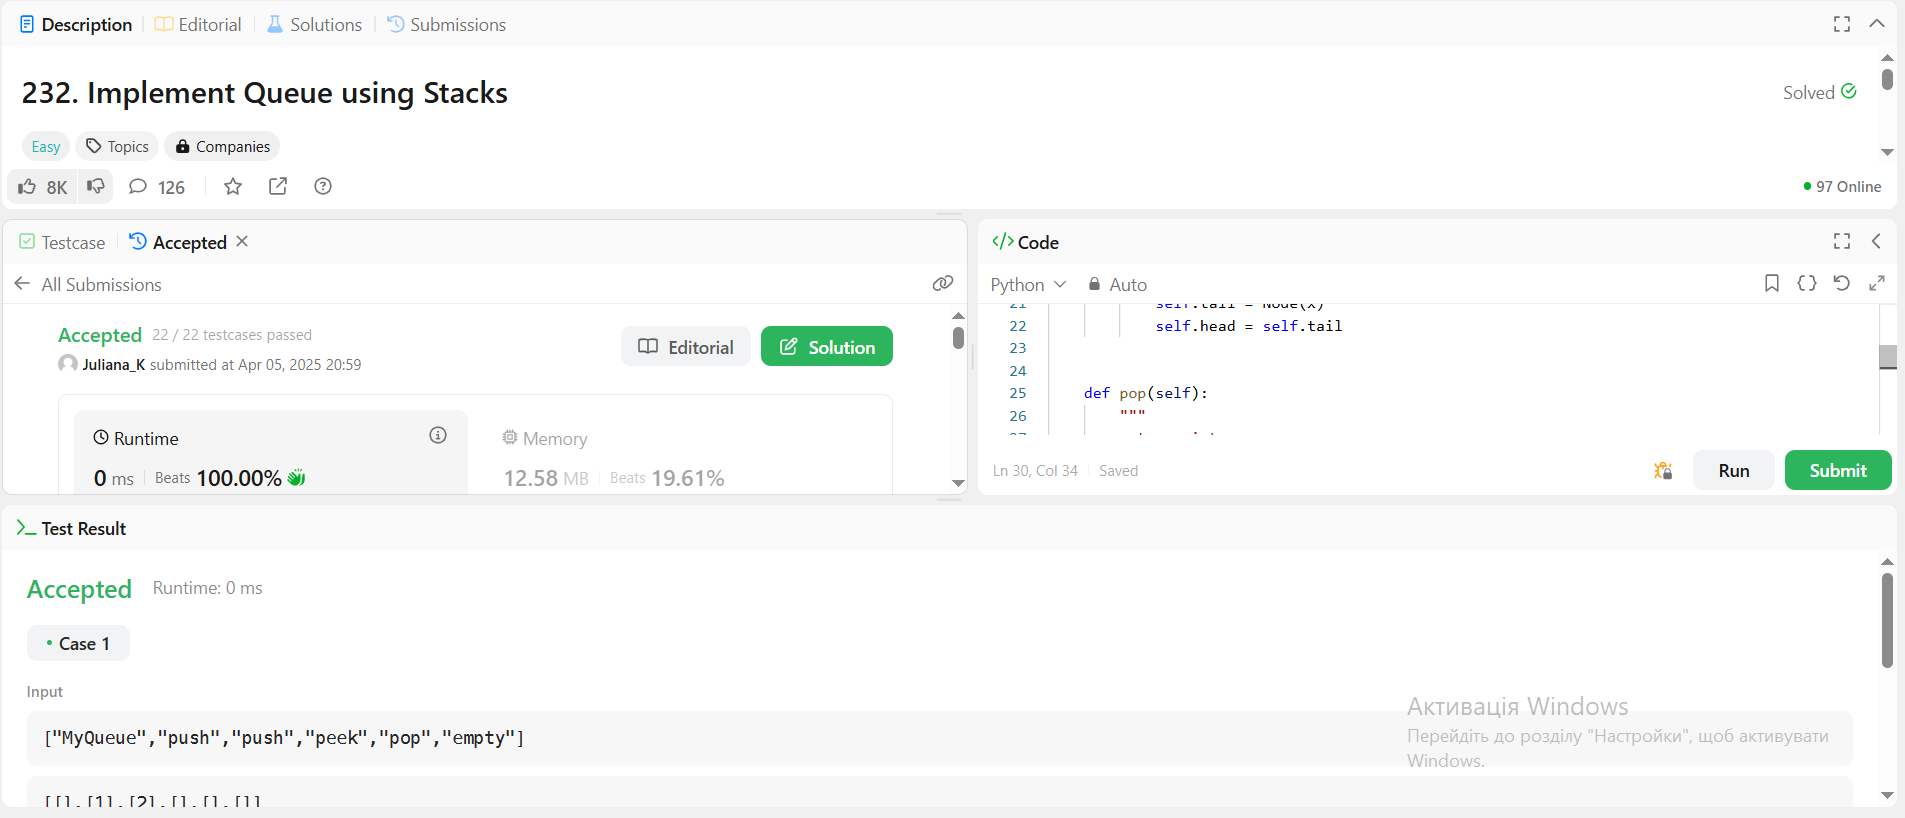
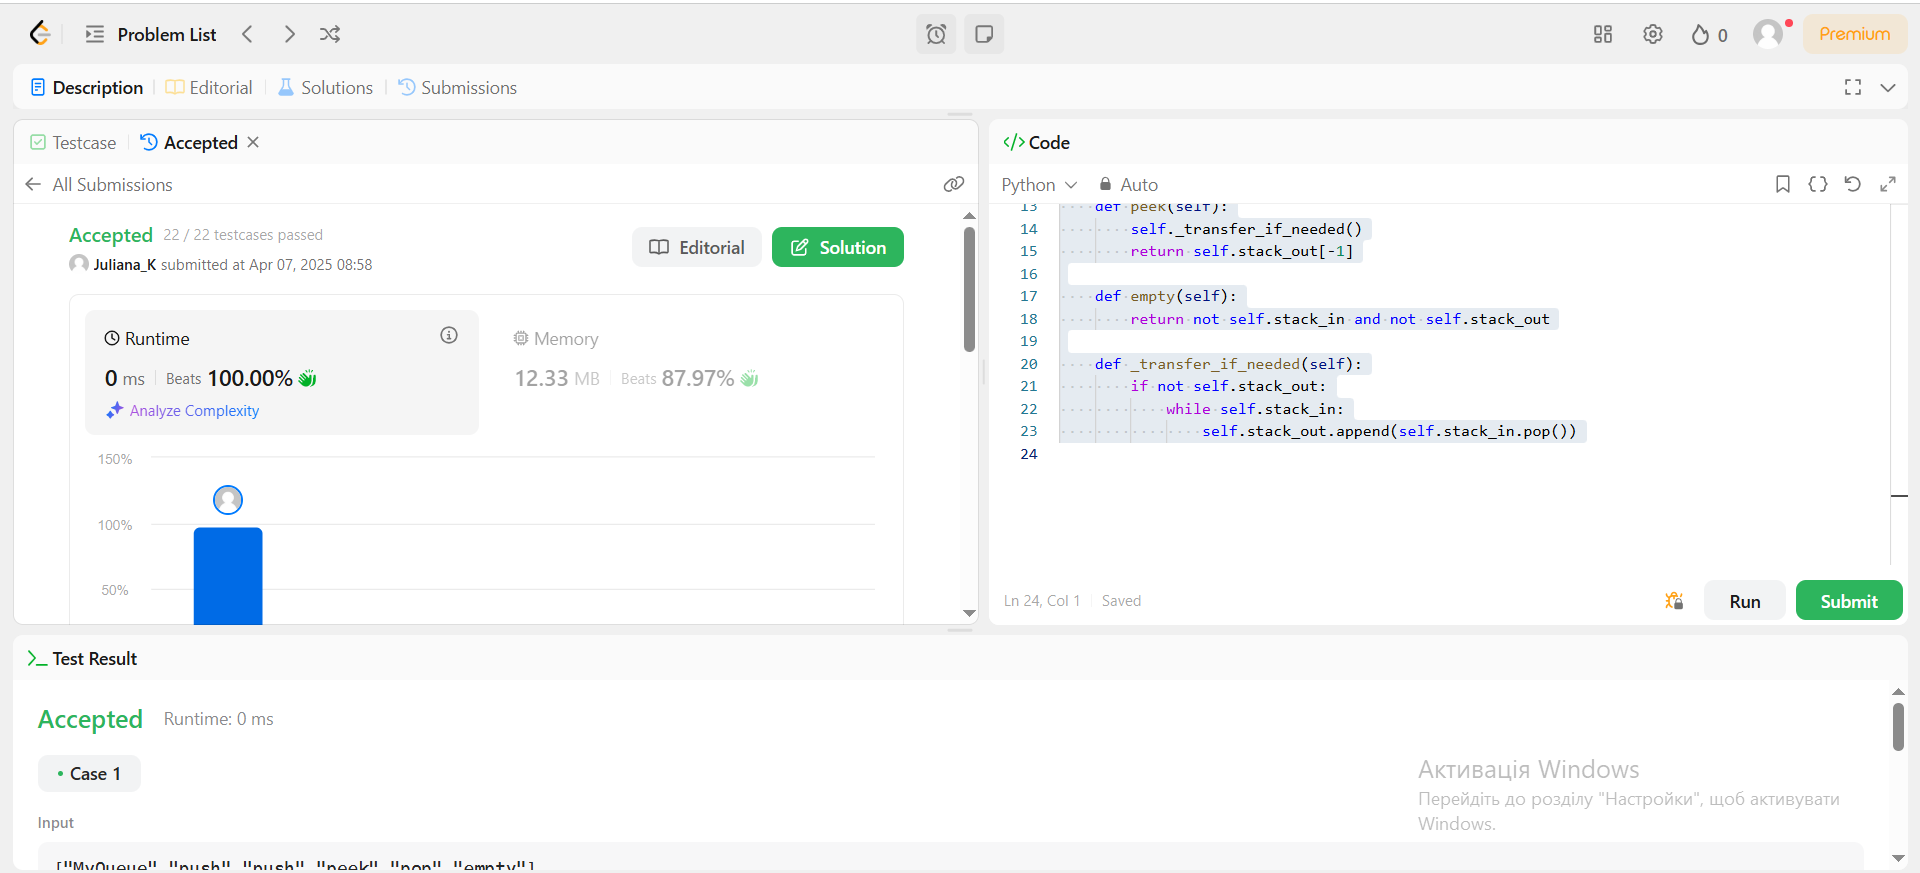
rewrite stack from queue and queue from stack

diff --git a/Implement Queue using Stacks/solution.py b/Implement Queue using Stacks/solution.py
@@ -1,55 +1,23 @@
-class Node:
-    def __init__(self, item, next=None):
-        self.item = item
-        self.next = next
-
-class MyQueue(object):
-
+class MyQueue:
     def __init__(self):
-        self.tail = None
-        self.head = None
+        self.stack_in = []
+        self.stack_out = []
 
     def push(self, x):
-        """
-        :type x: int
-        :rtype: None
-        """
-        if self.head:
-            self.tail.next = Node(x)
-            self.tail = self.tail.next
-        else:
-            self.tail = Node(x)
-            self.head = self.tail
-
+        self.stack_in.append(x)
 
     def pop(self):
-        """
-        :rtype: int
-        """
-        if self.head:
-            item = self.head.item
-            self.head = self.head.next
-            return item
-        raise ValueError('Oueue is empty')
+        self._transfer_if_needed()
+        return self.stack_out.pop()
 
     def peek(self):
-        """
-        :rtype: int
-        """
-        if not self.empty():
-            return self.head.item
-
+        self._transfer_if_needed()
+        return self.stack_out[-1]
 
     def empty(self):
-        """
-        :rtype: bool
-        """
-        return self.head is None
+        return not self.stack_in and not self.stack_out
 
-
-# Your MyQueue object will be instantiated and called as such:
-# obj = MyQueue()
-# obj.push(x)
-# param_2 = obj.pop()
-# param_3 = obj.peek()
-# param_4 = obj.empty()
+    def _transfer_if_needed(self):
+        if not self.stack_out:
+            while self.stack_in:
+                self.stack_out.append(self.stack_in.pop())

diff --git a/Implement Stack using Queues/solution.py b/Implement Stack using Queues/solution.py
@@ -1,46 +1,21 @@
-class Node:
-    def __init__(self, item, next=None):
-        self.item = item
-        self.next = next
+from collections import deque
 
-class MyStack(object):
-
+class MyStack:
     def __init__(self):
-        self.head = None
+        self.q1 = deque()
+        self.q2 = deque()
 
-    def push(self, x):
-        """
-        :type x: int
-        :rtype: None
-        """
-        self.head = Node(x, self.head)
+    def push(self,x):
+        self.q2.append(x)
+        while self.q1:
+            self.q2.append(self.q1.popleft())
+        self.q2, self.q1 = self.q1, self.q2
 
     def pop(self):
-        """
-        :rtype: int
-        """
-        if self.empty():
-            raise ValueError('Stack is empty')
-        item = self.head.item
-        self.head = self.head.next
-        return item
+        return self.q1.popleft()
 
     def top(self):
-        """
-        :rtype: int
-        """
-        return self.head.item
+        return self.q1[0]
 
     def empty(self):
-        """
-        :rtype: bool
-        """
-        return self.head is None
-
-
-# Your MyStack object will be instantiated and called as such:
-# obj = MyStack()
-# obj.push(x)
-# param_2 = obj.pop()
-# param_3 = obj.top()
-# param_4 = obj.empty()
+        return not self.q1
